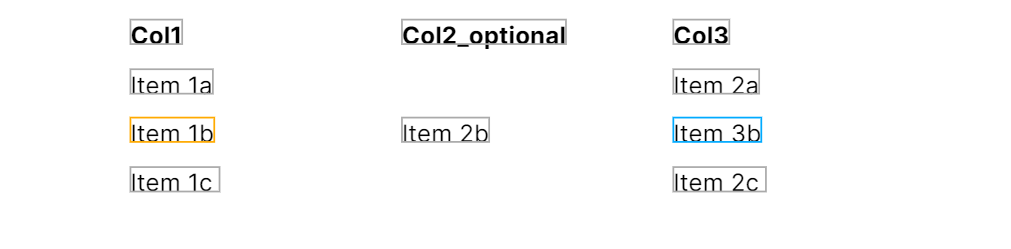
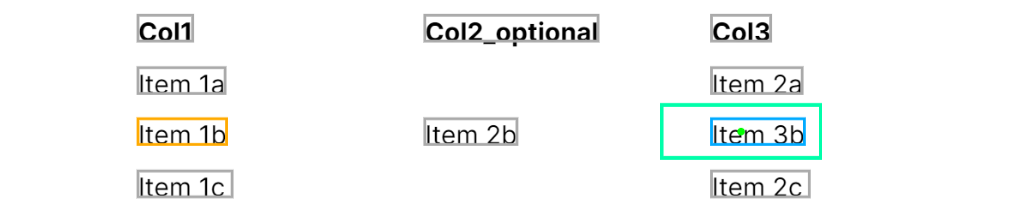
empty string, width/height intersection

diff --git a/readme-sync/v0/senseml-reference/2000 - methods/1800 - regex.md b/readme-sync/v0/senseml-reference/2000 - methods/1800 - regex.md
@@ -17,7 +17,7 @@ Parameters
 | key                    | value                                                 | description                                                  |
 | ---------------------- | ----------------------------------------------------- | ------------------------------------------------------------ |
 | id (**required**)      | `regex`                                               | Specifies to include the anchor line in the method's output. |
-| pattern (**required**) | Javascript-flavored regex                             | Returns the first capturing group. To capture more than one group, you can use one field for each group, then concatenate them with the [Concatenate](doc:concatenate) computed field method. <br/>Double escape special characters since the regex is in a JSON object. For example, `\\s`, not `\s` , to represent a whitespace character. |
+| pattern (**required**) | Javascript-flavored regex                             | Returns the first capturing group. To capture more than one group, you can use one field for each group, then concatenate them with the [Concatenate](doc:concatenate) computed field method. <br/>Double escape special characters since the regex is in a JSON object. For example, `\\s`, not `\s` , to represent a whitespace character.<br/>Sensible throws an error if you specify a pattern that can match an empty string, for example, `.*`. |
 | flags                  | Javascript-flavored regex flags. default: none        | Flags to apply to the regex. For example, "i" for case-insensitive. |
 | stop                   | Match object or array of match objects. default: none | Stops extraction at the matched line. Matched line isn't included in the method output. If unspecified, matches to the end of the document. |
 

diff --git a/readme-sync/v0/senseml-reference/2000 - field-query-object/1100 - match.md b/readme-sync/v0/senseml-reference/2000 - field-query-object/1100 - match.md
@@ -140,7 +140,7 @@ Match using a regular expression.
 | key                    | values                   | description                                                  |
 | ---------------------- | ------------------------ | ------------------------------------------------------------ |
 | type (**required**)    | `regex`                  |                                                              |
-| pattern (**required**) | valid  JS regex          | Javascript-flavored regular expression. This parameter doesn't support capturing groups. See the [Regex method](doc:regex) instead.<br/>Double escape special characters since the regex is in a JSON object (for example, `\\s`, not `\s` , to represent a whitespace character. |
+| pattern (**required**) | valid  JS regex          | Javascript-flavored regular expression. This parameter doesn't support capturing groups. See the [Regex method](doc:regex) instead.<br/>Double escape special characters since the regex is in a JSON object (for example, `\\s`, not `\s` , to represent a whitespace character.<br/>Sensible throws an error if you specify a pattern that can match an empty string, for example, `.*`. |
 | flags                  | JS-flavored regex flags. | Flags to apply to the regex. for example: "i" for case-insensitive. |
 
 **Example**

diff --git a/readme-sync/v0/senseml-reference/2000 - methods/1450 - draft-intersection.md b/readme-sync/v0/senseml-reference/2000 - methods/1450 - draft-intersection.md
@@ -41,7 +41,9 @@ The following example shows using the Intersection method to extract a cell from
       "anchor": "item 1b",
       "method": {
         "id": "intersection",
-        "verticalAnchor": "col3"
+        "verticalAnchor": "col3",
+        "width": 1.2,
+        "height": 0.4
       }
     }
   ]
